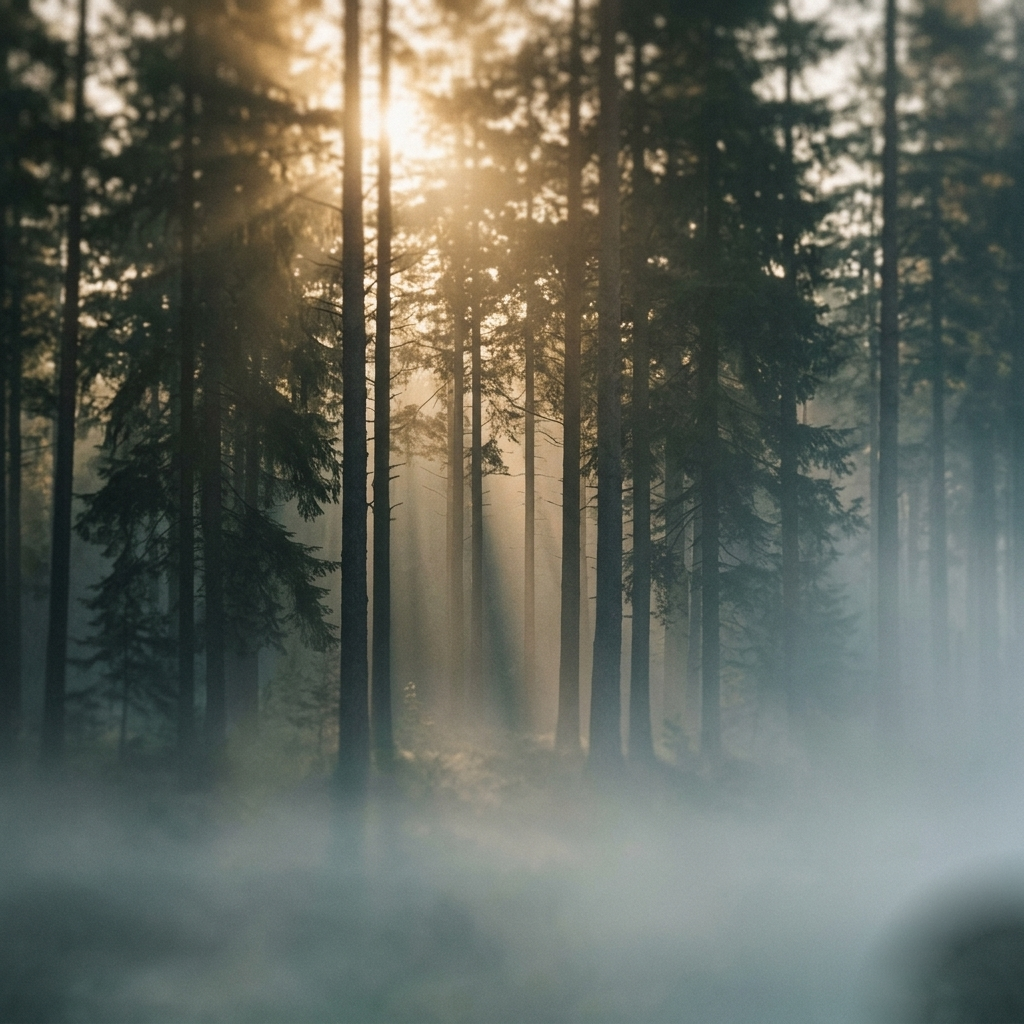
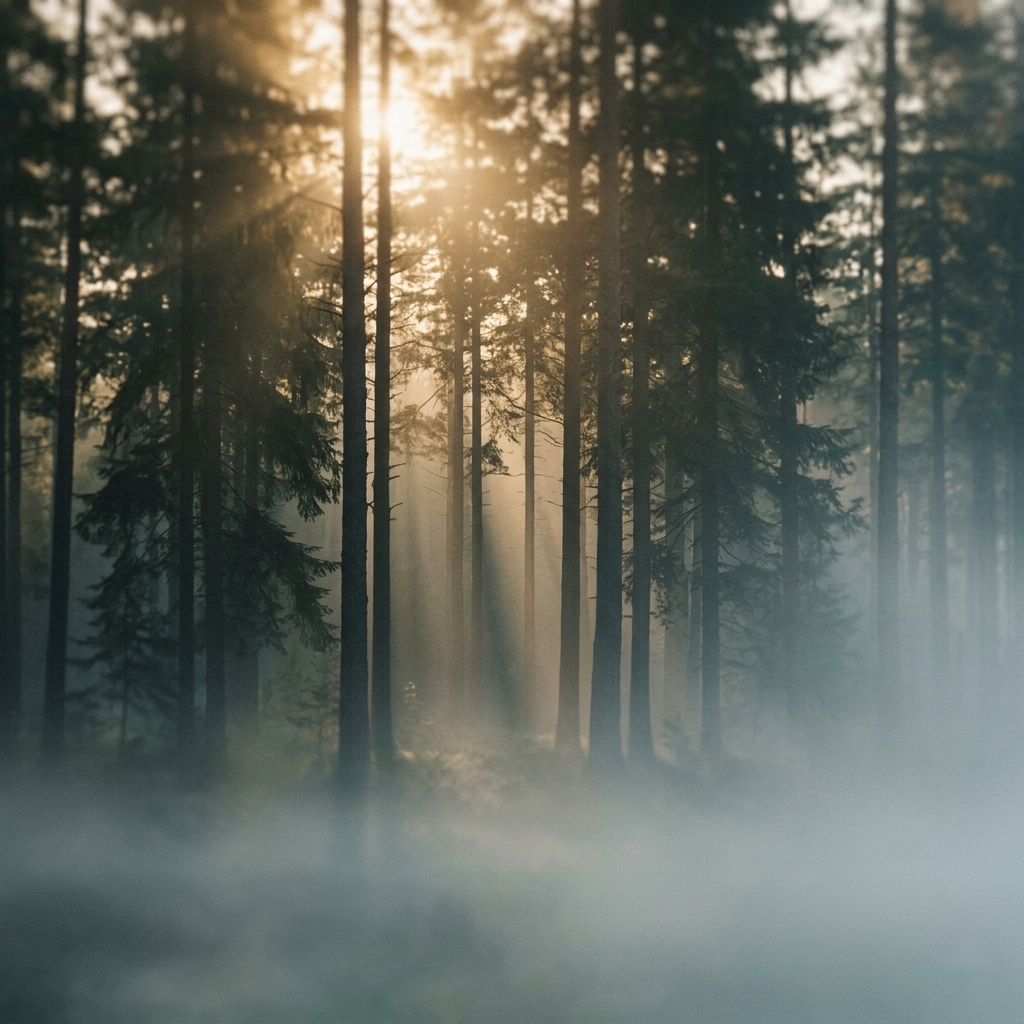
fix: switch gemini preset to inpaint strategy (#4)

Changed region(s): [[0.8438, 0.8438, 1.0, 1.0]]

diff --git a/unmark/presets.py b/unmark/presets.py
@@ -10,16 +10,19 @@ from unmark.core import remove_watermark
 
 
 def gemini(img: np.ndarray) -> np.ndarray:
-    """Google Gemini puts a small light sparkle in the bottom-right corner on the
-    generated image's background. Mirror-patch from bottom-left works cleanly when
-    the background is near-uniform (typical for portrait avatars)."""
+    """Google Gemini stamps a bright diamond/sparkle in the bottom-right corner on every
+    generated image. Inpaint detects the bright pixels and fills from immediate
+    neighbors, so whatever content sits behind the sparkle (fog, gradient, sky,
+    vignette) is preserved instead of being replaced with content from the opposite
+    corner. Works on both uniform and non-uniform backgrounds."""
     return remove_watermark(
         img,
-        strategy="mirror",
+        strategy="inpaint",
         corner="bottom-right",
-        patch_ratio=0.22,
-        full_radius_ratio=0.42,
-        fade_radius_ratio=0.78,
+        region_ratio=0.20,
+        brightness_threshold=200,
+        dilate_iters=4,
+        inpaint_radius=12,
     )
 
 
